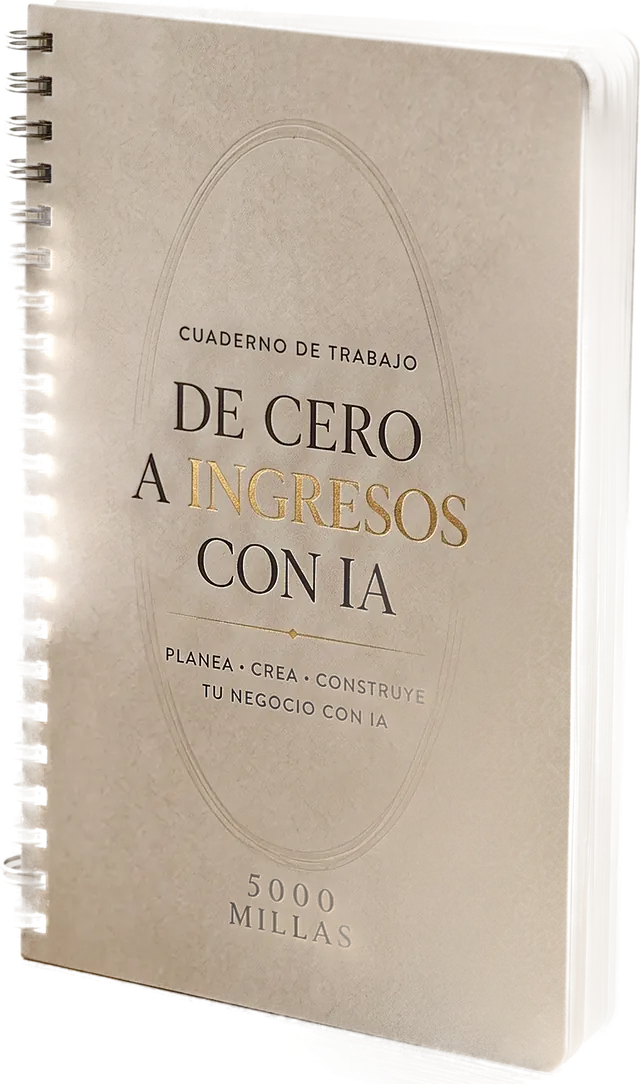
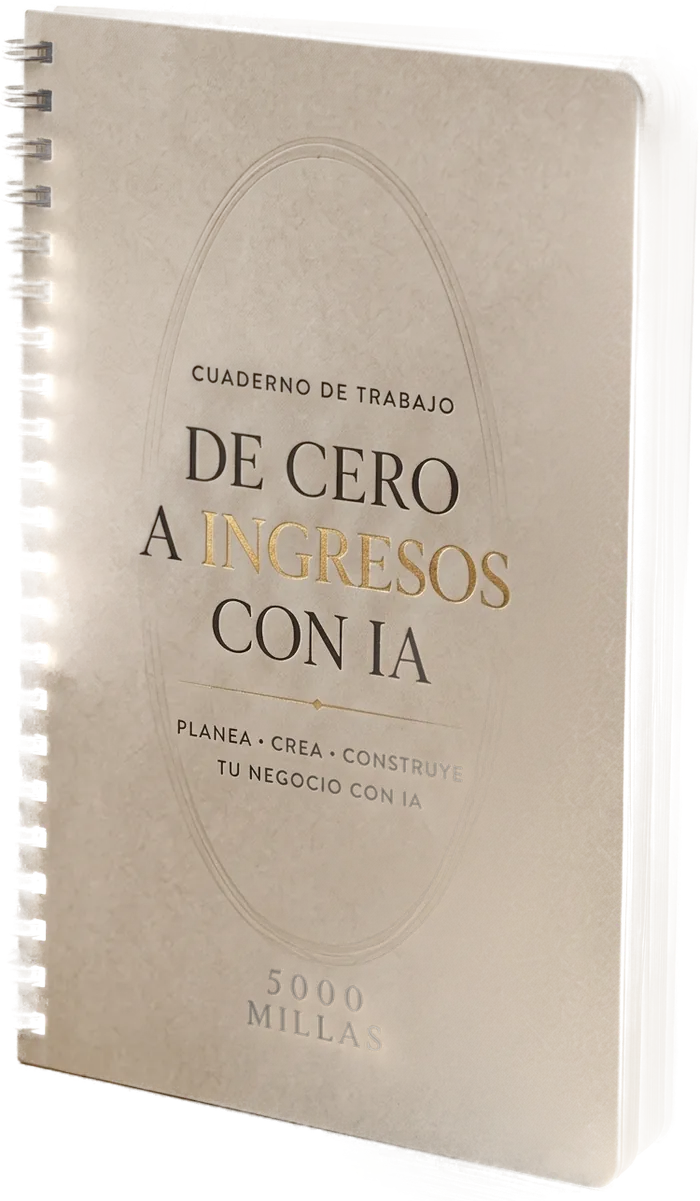
assets: nuevo mockup del cuaderno (foto realista, alpha extraído con u2net+alpha_matting)
- cuaderno.png (750×1287, master): cutout limpio del render fotográfico
  sobre madera; fondo/pen/canasto eliminados, cover text y espiral intactos
- cuaderno.webp (700×1201, 365 KB, q=80): versión servida
- HTML width/height actualizados 640×1084 → 700×1201

Formulario intacto, POST Supabase verificado HTTP 201.

diff --git a/index.html b/index.html
@@ -684,7 +684,7 @@
         <img
           src="./public/registro-evento/cuaderno.webp"
           alt="Cuaderno de trabajo: De Cero a Ingresos con IA"
-          loading="eager" width="640" height="1084">
+          loading="eager" width="700" height="1201">
       </div>
     </div>
   </div>
@@ -808,7 +808,7 @@
 
 <!-- ============ CIERRE ============ -->
 <section class="cierre reveal">
-  <img class="cuaderno-mini" src="./public/registro-evento/cuaderno.webp" alt="" loading="lazy" width="640" height="1084">
+  <img class="cuaderno-mini" src="./public/registro-evento/cuaderno.webp" alt="" loading="lazy" width="700" height="1201">
   <h2>Reserva tu cupo y reclama tu <span class="oro">Cuaderno de Trabajo.</span></h2>
   <p class="escasez">Quedan 30 cupos · Cuando se llenen, se cierra el registro</p>
   <a href="#formulario" class="cta-oro">Confirmar mi cupo <span class="arrow" aria-hidden="true">→</span></a>
